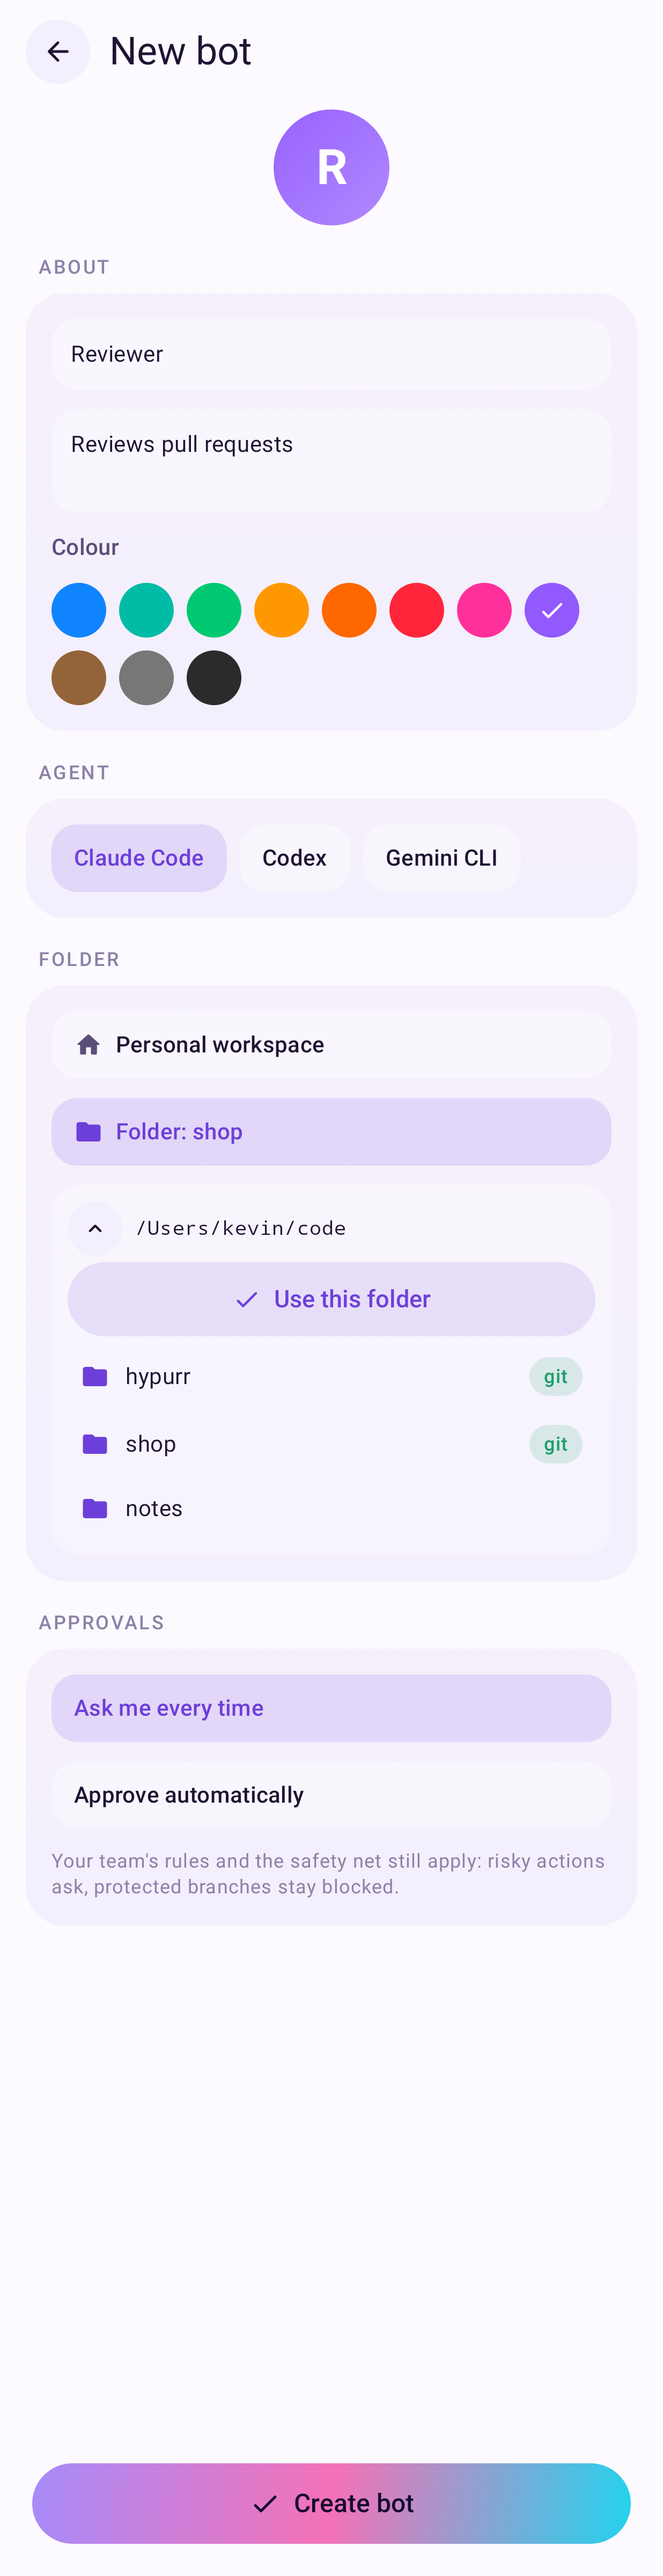
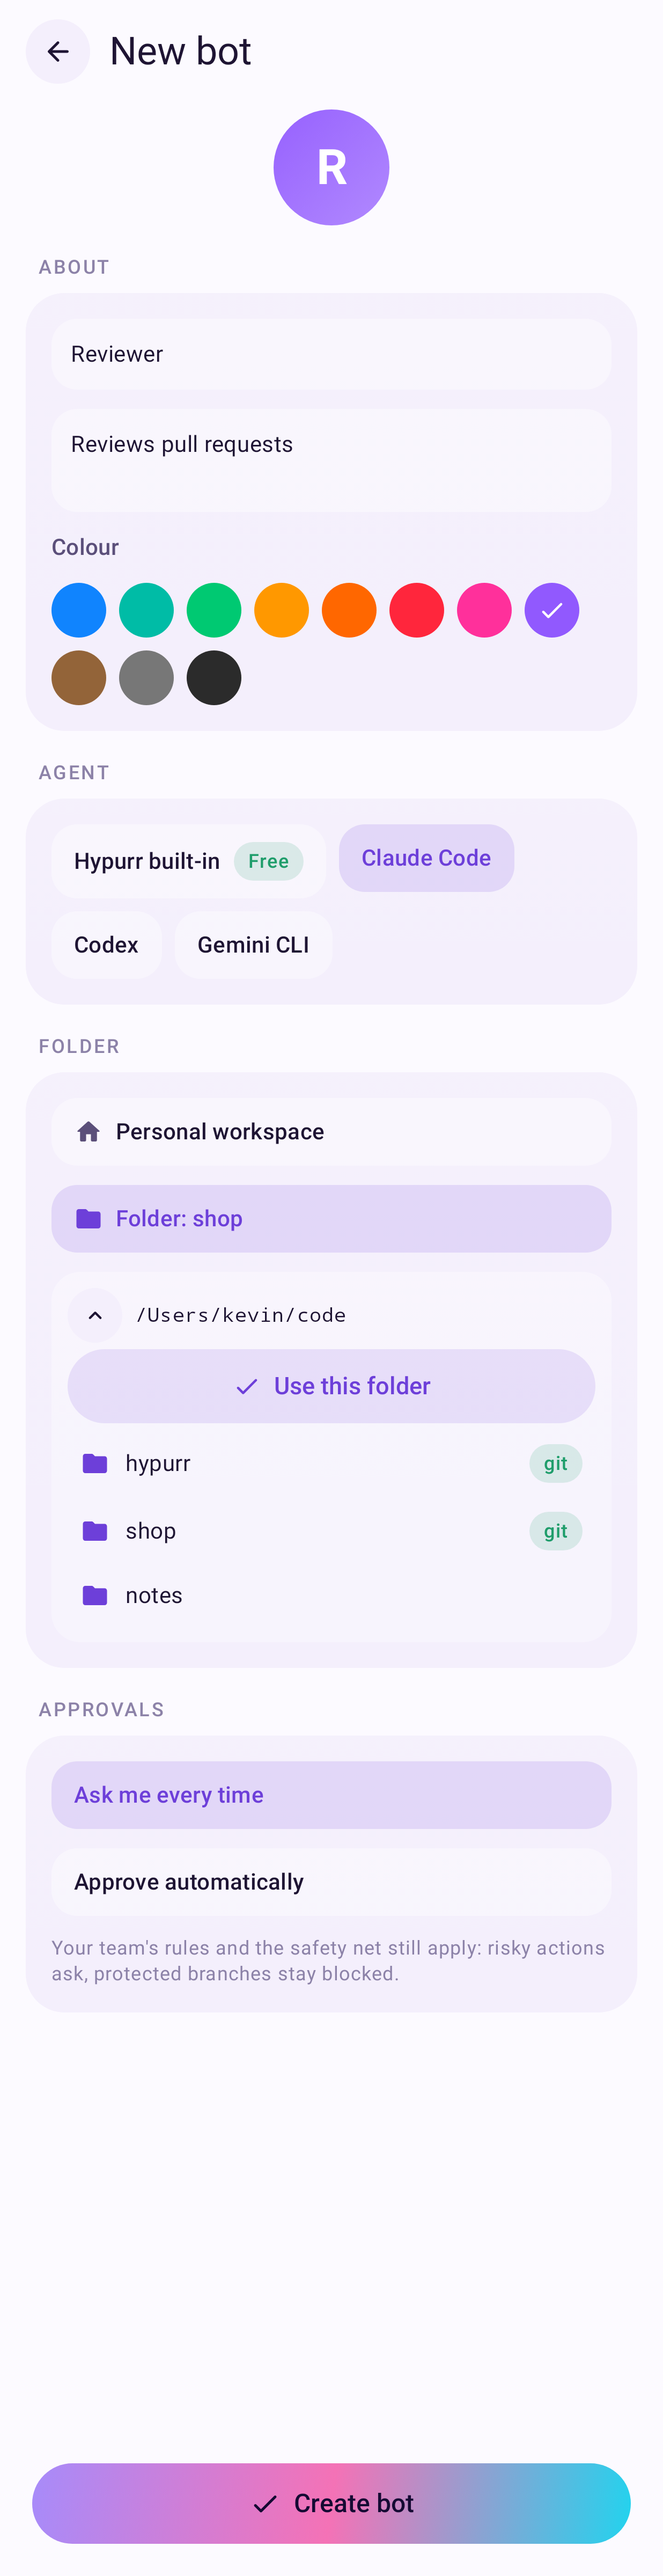
feat(android): Free badge, model picker and OpenCode install onboarding

Changed region(s): [[0.0615, 0.5312, 0.9223, 0.7812], [0.0615, 0.3125, 0.9223, 0.5625], [0.4919, 0.3125, 0.7994, 0.3438]]

diff --git a/apps/android/app/src/main/java/com/ragul84/hypurr/ui/screens/BotEditorScreen.kt b/apps/android/app/src/main/java/com/ragul84/hypurr/ui/screens/BotEditorScreen.kt
@@ -67,6 +67,8 @@ data class BotEditorState(
     val description: String = "",
     val avatarColor: String = "blue",
     val backend: String? = null,
+    /** OpenCode free model id (`opencode/big-pickle`), when the built-in agent is selected. */
+    val model: String? = null,
     /** Null = a personal workspace Hypurr makes for the bot. */
     val folder: String? = null,
     /** ask | auto */
@@ -95,6 +97,7 @@ data class BotEditorState(
             put("description", description.trim())
             put("avatarColor", avatarColor)
             backend?.takeIf { isNew || it != original?.backend }?.let { put("backend", it) }
+            model?.takeIf { it.isNotBlank() && (isNew || it != original?.model) }?.let { put("model", it) }
             if (isNew) put("cwd", folder.orEmpty())
             put("permission", permission)
         }
@@ -102,11 +105,14 @@ data class BotEditorState(
     }
 
     companion object {
-        fun newBot(backends: List<Backend>): BotEditorState = BotEditorState(backend = backends.singleOrNull()?.id)
+        fun newBot(backends: List<Backend>): BotEditorState {
+            val pick = backends.firstOrNull { it.builtin } ?: backends.singleOrNull() ?: backends.firstOrNull()
+            return BotEditorState(backend = pick?.id, model = pick?.defaultModel ?: pick?.freeModels?.firstOrNull()?.id)
+        }
         fun newGroup(members: List<String> = emptyList()) = BotEditorState(group = true, members = members)
         fun of(bot: Bot) = BotEditorState(
             group = bot.isGroup, id = bot.id, name = bot.name, description = bot.description, avatarColor = bot.avatarColor,
-            backend = bot.backend.ifEmpty { null }, folder = if (bot.managedWorkspace) null else bot.cwd, permission = bot.permission,
+            backend = bot.backend.ifEmpty { null }, model = bot.model, folder = if (bot.managedWorkspace) null else bot.cwd, permission = bot.permission,
             members = bot.members, pinned = bot.pinned,
         )
     }
@@ -115,6 +121,7 @@ data class BotEditorState(
 /** Agents a new bot can use: installed and runnable, and allowed by the team's rules. */
 fun usableBackends(backends: List<Backend>, allowed: List<String>): List<Backend> =
     backends.filter { it.available && (allowed.isEmpty() || it.id in allowed) }
+        .sortedByDescending { it.builtin }
 
 @OptIn(ExperimentalLayoutApi::class)
 @Composable
@@ -197,13 +204,36 @@ fun BotEditorScreen(
             } else {
                 Section("Agent") {
                     if (backends.isEmpty()) {
-                        Text("No agent your team allows is installed on the computer. Install one (like Claude Code or Codex) from the Mac or Linux app.",
+                        Text("No agent your team allows is installed on the computer. Install Hypurr's built-in agent (OpenCode, free models) or Claude Code / Codex from the computer.",
                             color = c.warning, style = MaterialTheme.typography.bodyMedium)
                     }
                     FlowRow(horizontalArrangement = Arrangement.spacedBy(8.dp), verticalArrangement = Arrangement.spacedBy(8.dp)) {
                         val shown = backends.ifEmpty { listOfNotNull(state.backend?.let { Backend(it, it) }) }
                         shown.forEach { b ->
-                            Choice(b.name.ifEmpty { b.id }, state.backend == b.id) { onChange(state.copy(backend = b.id)) }
+                            Choice(
+                                label = b.name.ifEmpty { b.id },
+                                on = state.backend == b.id,
+                                badge = when {
+                                    b.free || b.builtin -> "Free"
+                                    else -> null
+                                },
+                            ) {
+                                onChange(state.copy(backend = b.id, model = b.defaultModel ?: b.freeModels.firstOrNull()?.id ?: state.model))
+                            }
+                        }
+                    }
+                    val selected = backends.firstOrNull { it.id == state.backend }
+                    if (selected != null && (selected.free || selected.builtin) && selected.freeModels.isNotEmpty()) {
+                        Text("Free model", color = c.secondary, style = MaterialTheme.typography.labelLarge, modifier = Modifier.padding(top = 8.dp))
+                        Text(selected.subtitle.ifEmpty { "OpenCode Zen · no API key needed for free models" }, color = c.tertiary,
+                            style = MaterialTheme.typography.bodySmall)
+                        FlowRow(horizontalArrangement = Arrangement.spacedBy(8.dp), verticalArrangement = Arrangement.spacedBy(8.dp),
+                            modifier = Modifier.padding(top = 8.dp)) {
+                            selected.freeModels.forEach { m ->
+                                Choice(m.name.ifEmpty { m.id.substringAfterLast('/') }, state.model == m.id, badge = "Free") {
+                                    onChange(state.copy(model = m.id))
+                                }
+                            }
                         }
                     }
                 }
@@ -263,7 +293,7 @@ fun BotEditorScreen(
 }
 
 @Composable
-private fun Choice(label: String, on: Boolean, modifier: Modifier = Modifier, icon: androidx.compose.ui.graphics.vector.ImageVector? = null, onClick: () -> Unit) {
+private fun Choice(label: String, on: Boolean, modifier: Modifier = Modifier, icon: androidx.compose.ui.graphics.vector.ImageVector? = null, badge: String? = null, onClick: () -> Unit) {
     val c = Hypurr.colors
     Row(modifier.clip(RoundedCornerShape(16.dp)).background(if (on) c.accent.copy(alpha = 0.14f) else c.bg.copy(alpha = 0.6f))
         .pressable(label, role = Role.RadioButton, onClick = onClick).padding(horizontal = 14.dp, vertical = 11.dp),
@@ -274,6 +304,10 @@ private fun Choice(label: String, on: Boolean, modifier: Modifier = Modifier, ic
         }
         Text(label, color = if (on) c.accent else c.text, style = MaterialTheme.typography.titleSmall, maxLines = 1, overflow = TextOverflow.Ellipsis,
             modifier = Modifier.weight(1f, fill = false))
+        if (badge != null) {
+            Spacer(Modifier.width(8.dp))
+            Pill(badge, c.success)
+        }
     }
 }
 

diff --git a/apps/android/app/src/main/java/com/ragul84/hypurr/ui/screens/BotListScreen.kt b/apps/android/app/src/main/java/com/ragul84/hypurr/ui/screens/BotListScreen.kt
@@ -99,6 +99,9 @@ fun BotListScreen(
     initialMenuOpen: Boolean = false,
     /** Opens the computer's screen; null when the computer doesn't offer it. */
     onScreen: (() -> Unit)? = null,
+    /** When set, show the built-in agent install card (OpenCode free models). */
+    builtinInstall: BuiltinInstallPrompt? = null,
+    onInstallBuiltin: () -> Unit = {},
 ) {
     val c = Hypurr.colors
     var menu by remember { mutableStateOf(initialMenuOpen) }
@@ -146,6 +149,7 @@ fun BotListScreen(
                     .glass(RoundedCornerShape(18.dp), c.warning.copy(alpha = 0.1f), highlight = false).padding(14.dp))
         }
         if (synced && bots.isEmpty()) {
+            builtinInstall?.let { BuiltinInstallCard(it, onInstallBuiltin, Modifier.padding(horizontal = 16.dp, vertical = 8.dp)) }
             EmptyRoster(onNewTask)
             return@Column
         }
@@ -155,6 +159,11 @@ fun BotListScreen(
         }
         LazyColumn(contentPadding = PaddingValues(start = 12.dp, end = 12.dp, top = 8.dp, bottom = 112.dp),
             verticalArrangement = Arrangement.spacedBy(2.dp)) {
+            builtinInstall?.let { prompt ->
+                item(key = "builtin-install") {
+                    BuiltinInstallCard(prompt, onInstallBuiltin, Modifier.padding(horizontal = 4.dp, vertical = 8.dp))
+                }
+            }
             if (needsYou.isNotEmpty()) {
                 item(key = "needs-header") { SectionLabel("Needs you", c.warning) }
                 item(key = "needs") {
@@ -265,5 +274,29 @@ fun StatusLine(bot: Bot) {
             maxLines = 1, overflow = TextOverflow.Ellipsis)
         else -> Text(bot.lastMessage ?: bot.description.ifEmpty { bot.folderName }, color = c.secondary,
             style = MaterialTheme.typography.bodyMedium, maxLines = 1, overflow = TextOverflow.Ellipsis)
+    }
+}
+
+/** Offer to install Hypurr's built-in OpenCode agent (free Zen models). */
+data class BuiltinInstallPrompt(
+    val title: String = "Hypurr built-in agent",
+    val body: String = "Install OpenCode into ~/.hypurr/agents/opencode and start with free models (Big Pickle and others). No other AI account needed.",
+    val consent: String = "Free Zen models are provided by OpenCode for a limited time; some may use prompts to improve the model.",
+    val busy: Boolean = false,
+    val error: String? = null,
+)
+
+@Composable
+private fun BuiltinInstallCard(prompt: BuiltinInstallPrompt, onInstall: () -> Unit, modifier: Modifier = Modifier) {
+    val c = Hypurr.colors
+    Column(modifier.fillMaxWidth().glass(RoundedCornerShape(20.dp), c.bg.copy(alpha = 0.55f)).padding(16.dp), verticalArrangement = Arrangement.spacedBy(8.dp)) {
+        Row(verticalAlignment = Alignment.CenterVertically) {
+            Text(prompt.title, color = c.text, style = MaterialTheme.typography.titleMedium, modifier = Modifier.weight(1f))
+            Pill("Free", c.success)
+        }
+        Text(prompt.body, color = c.secondary, style = MaterialTheme.typography.bodyMedium)
+        Text(prompt.consent, color = c.tertiary, style = MaterialTheme.typography.bodySmall)
+        prompt.error?.let { Text(it, color = c.danger, style = MaterialTheme.typography.bodySmall) }
+        FlowButton(if (prompt.busy) "Installing…" else "Install OpenCode", enabled = !prompt.busy, onClick = onInstall)
     }
 }

diff --git a/apps/android/app/src/main/java/com/ragul84/hypurr/MainActivity.kt b/apps/android/app/src/main/java/com/ragul84/hypurr/MainActivity.kt
@@ -55,6 +55,7 @@ import org.webrtc.SurfaceViewRenderer
 import com.ragul84.hypurr.model.Pairing
 import com.ragul84.hypurr.net.LinkState
 import com.ragul84.hypurr.ui.screens.BotListScreen
+import com.ragul84.hypurr.ui.screens.BuiltinInstallPrompt
 import com.ragul84.hypurr.ui.screens.ChatScreen
 import com.ragul84.hypurr.ui.screens.NewTaskScreen
 import com.ragul84.hypurr.ui.screens.NewTaskUiState
@@ -219,6 +220,8 @@ class MainActivity : ComponentActivity() {
         val requested by openBot.collectAsState()
         val you by store.you.collectAsState()
         var screen by rememberSaveable { mutableStateOf("list") }
+        var builtinBusy by remember { mutableStateOf(false) }
+        var builtinError by remember { mutableStateOf<String?>(null) }
         requested?.let {
             openBot.value = null
             screen = "chat:$it"
@@ -490,6 +493,10 @@ class MainActivity : ComponentActivity() {
                 }
                 else -> {
                     val hello by store.hello.collectAsState()
+                    val builtin = hello?.builtinAgent
+                    val prompt = if (you?.canAct != false && builtin != null && (builtin.needsInstall || (!builtin.installed && builtin.available))) {
+                        BuiltinInstallPrompt(busy = builtinBusy, error = builtinError, consent = builtin.consent ?: BuiltinInstallPrompt().consent)
+                    } else null
                     BotListScreen(
                         current.name, linkState, rosterOrder(bots.values), synced,
                         onOpen = { screen = "chat:${it.id}" },
@@ -501,6 +508,15 @@ class MainActivity : ComponentActivity() {
                         onNewGroup = { screen = "group:new" },
                         canCreate = you?.canAct != false,
                         onScreen = if (hello?.screen?.enabled == true && you?.canAct != false) ({ screen = "screen" }) else null,
+                        builtinInstall = prompt,
+                        onInstallBuiltin = {
+                            builtinBusy = true; builtinError = null
+                            lifecycleScope.launch {
+                                runCatching { store.installBuiltinAgent() }
+                                    .onFailure { builtinError = it.message ?: "Couldn't install OpenCode" }
+                                builtinBusy = false
+                            }
+                        },
                     )
                 }
             }

diff --git a/apps/android/app/src/test/java/com/ragul84/hypurr/ui/ScreenshotTest.kt b/apps/android/app/src/test/java/com/ragul84/hypurr/ui/ScreenshotTest.kt
@@ -22,6 +22,7 @@ import com.ragul84.hypurr.ui.theme.HypurrTheme
 import com.ragul84.hypurr.data.PickedFile
 import com.ragul84.hypurr.screen.ScreenPhase
 import com.ragul84.hypurr.ui.screens.BotEditorScreen
+import com.ragul84.hypurr.ui.screens.BuiltinInstallPrompt
 import com.ragul84.hypurr.ui.screens.BotEditorState
 import com.ragul84.hypurr.ui.screens.ComposerFiles
 import com.ragul84.hypurr.ui.screens.ScreenScreen
@@ -250,6 +251,22 @@ class ScreenshotTest {
     fun screenOff() = shoot("screen-off") {
         ScreenScreen(ScreenUiState("Kevin's Mac Studio", com.ragul84.hypurr.model.ScreenState()), {}, {}, {}, {}) { }
     }
+
+    @Test
+    @Config(qualifiers = "w412dp-h1600dp-xxhdpi")
+    fun newBotBuiltin() = shoot("new-bot-builtin") {
+        BotEditorScreen(
+            BotEditorState(name = "Helper", description = "First bot on a new computer", avatarColor = "violet",
+                backend = "opencode", model = "opencode/big-pickle"),
+            Samples.backends, emptyList(), {}, {}, {}, {}, {})
+    }
+
+    @Test
+    fun rosterBuiltinInstall() = shoot("builtin-install") {
+        BotListScreen(Samples.computer.name, LinkState.Ready(Route.Direct), emptyList(), synced = true,
+            onOpen = {}, onSettings = {}, onRetry = {}, now = Samples.NOW, byId = emptyMap(),
+            builtinInstall = BuiltinInstallPrompt())
+    }
 }
 
 /** Stands in for the WebRTC video in screenshots: a desktop with a window, letterboxed like the real video. */
@@ -270,4 +287,5 @@ private fun FakeDesktop(modifier: androidx.compose.ui.Modifier) {
                 size = androidx.compose.ui.geometry.Size(size.width, size.height * 0.06f))
         }
     }
+
 }

diff --git a/apps/android/app/src/test/java/com/ragul84/hypurr/ui/Samples.kt b/apps/android/app/src/test/java/com/ragul84/hypurr/ui/Samples.kt
@@ -316,7 +316,17 @@ object Samples {
             final = true, author = "a2", thread = com.ragul84.hypurr.model.ThreadSummary(2, NOW - 2 * MIN, listOf("user", "a2"))), NOW - 3 * MIN, bot = "g1"),
     )
 
-    val backends = listOf(com.ragul84.hypurr.model.Backend("claude", "Claude Code"), com.ragul84.hypurr.model.Backend("codex", "Codex"),
+    val freeModels = listOf(
+        com.ragul84.hypurr.model.AgentModel("opencode/big-pickle", "Big Pickle", "General coding", free = true),
+        com.ragul84.hypurr.model.AgentModel("opencode/space-bunny-free", "Space Bunny Free", free = true),
+        com.ragul84.hypurr.model.AgentModel("opencode/minimax-m2.5-free", "MiniMax M2.5 Free", free = true),
+    )
+    val builtinOpenCode = com.ragul84.hypurr.model.Backend(
+        "opencode", "Hypurr built-in", available = true, installed = true, builtin = true, free = true,
+        subtitle = "OpenCode · free models", defaultModel = "opencode/big-pickle", freeModels = freeModels,
+        description = "OpenCode with free Zen models — Hypurr's built-in agent.",
+    )
+    val backends = listOf(builtinOpenCode, com.ragul84.hypurr.model.Backend("claude", "Claude Code"), com.ragul84.hypurr.model.Backend("codex", "Codex"),
         com.ragul84.hypurr.model.Backend("gemini", "Gemini CLI"))
 
     val dirs = com.ragul84.hypurr.model.DirListing("/Users/kevin/code", "/Users/kevin", false, listOf(

diff --git a/apps/android/app/src/main/java/com/ragul84/hypurr/model/Models.kt b/apps/android/app/src/main/java/com/ragul84/hypurr/model/Models.kt
@@ -266,8 +266,25 @@ data class Entry(
 }
 
 @Serializable
-data class Backend(val id: String, val name: String = "", val available: Boolean = true, val installed: Boolean = true,
-                   val description: String = "")
+data class Backend(
+    val id: String,
+    val name: String = "",
+    val available: Boolean = true,
+    val installed: Boolean = true,
+    val description: String = "",
+    val builtin: Boolean = false,
+    val free: Boolean = false,
+    val subtitle: String = "",
+    val defaultModel: String? = null,
+    val freeModels: List<AgentModel> = emptyList(),
+    val needsInstall: Boolean = false,
+    val version: String? = null,
+    val consent: String? = null,
+)
+
+/** A model an agent can run (OpenCode free Zen models, or whatever `agentModels` returns). */
+@Serializable
+data class AgentModel(val id: String, val name: String = "", val description: String = "", val free: Boolean = false)
 
 @Serializable
 data class Hello(
@@ -286,6 +303,7 @@ data class Hello(
     val you: Actor? = null,
     /** Agents the computer knows; `available` ones can run a new bot. */
     val backends: List<Backend> = emptyList(),
+    val builtinAgent: Backend? = null,
     val home: String? = null,
     val screen: ScreenState? = null,
 )

diff --git a/apps/android/app/src/main/java/com/ragul84/hypurr/net/HostClient.kt b/apps/android/app/src/main/java/com/ragul84/hypurr/net/HostClient.kt
@@ -1,6 +1,7 @@
 package com.ragul84.hypurr.net
 
 import com.ragul84.hypurr.data.DeviceIdentity
+import com.ragul84.hypurr.model.Backend
 import com.ragul84.hypurr.model.Bot
 import com.ragul84.hypurr.model.Computer
 import com.ragul84.hypurr.model.Entry
@@ -154,6 +155,12 @@ class HostClient(val transport: ChannelTransport) {
     }
 
     // Bots and groups.
+
+    /** Downloads the pinned OpenCode build into `~/.hypurr/agents/opencode` (user must have consented). */
+    suspend fun installBuiltinAgent(): Backend {
+        val res = transport.call("installBuiltinAgent", buildJsonObject { put("consent", true) }, timeoutMs = 600_000)
+        return HypurrJson.decodeFromJsonElement(res)
+    }
 
     /** A bot (`backend`, `cwd` empty = a personal workspace, `permission`) or a group (`kind: "group"`, `members`). */
     suspend fun createBot(config: JsonObject): Bot {

diff --git a/apps/android/app/src/main/java/com/ragul84/hypurr/data/HypurrStore.kt b/apps/android/app/src/main/java/com/ragul84/hypurr/data/HypurrStore.kt
@@ -3,6 +3,7 @@ package com.ragul84.hypurr.data
 import com.ragul84.hypurr.model.Activity
 import com.ragul84.hypurr.model.Actor
 import com.ragul84.hypurr.model.AuditLog
+import com.ragul84.hypurr.model.Backend
 import com.ragul84.hypurr.model.Bot
 import com.ragul84.hypurr.model.PolicyInfo
 import com.ragul84.hypurr.model.TeamInfo
@@ -326,6 +327,13 @@ class HypurrStore(
 
     suspend fun react(entryId: String, emoji: String) {
         client?.react(entryId, emoji)?.let(::upsert)
+    }
+
+    /** Installs Hypurr's built-in OpenCode agent after the user consents. */
+    suspend fun installBuiltinAgent(): Backend {
+        val b = (client ?: throw HostException.unreachable()).installBuiltinAgent()
+        refreshHello()
+        return b
     }
 
     // MARK: bots and groups
